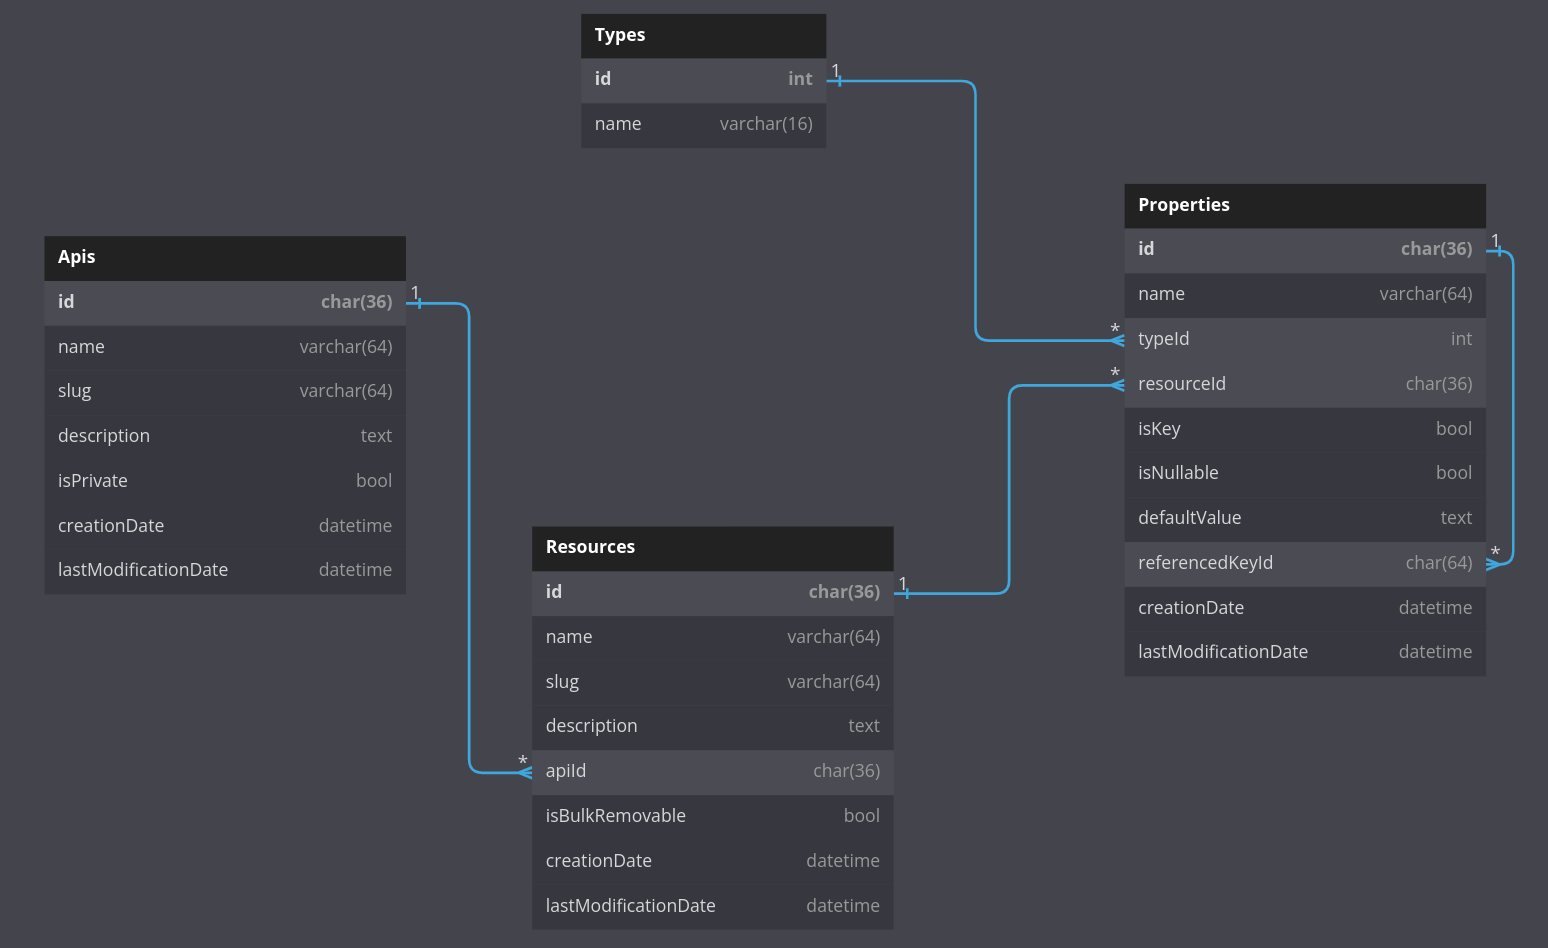
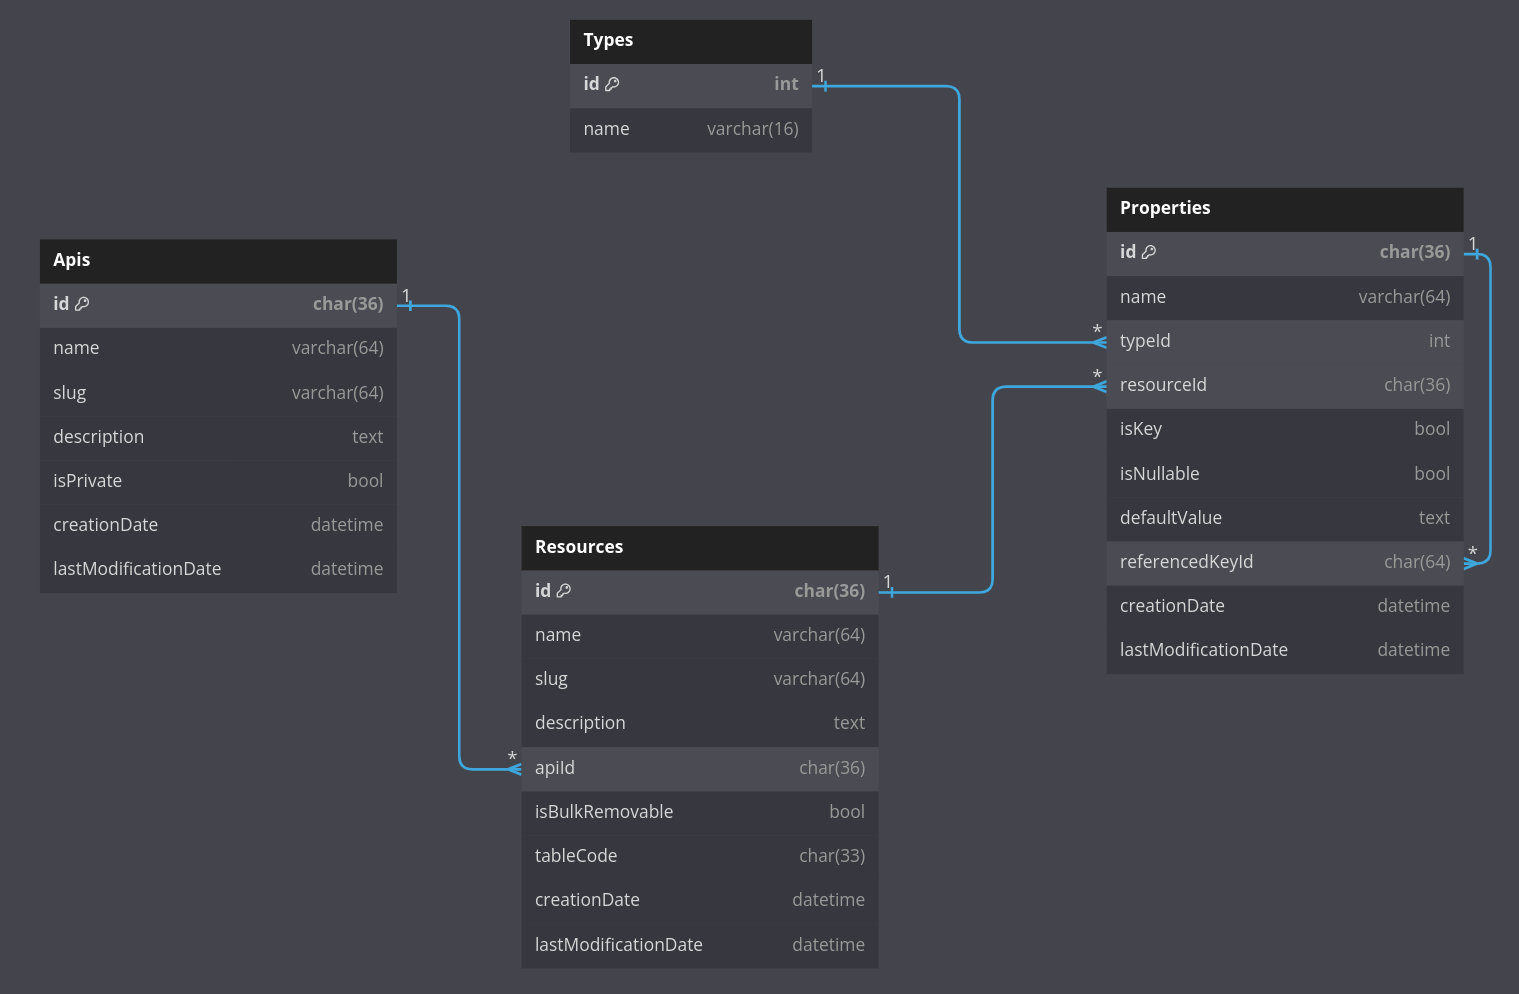
Add 'table code' property in db diagram, script and repository

diff --git a/src/resource/repository/queries.ts b/src/resource/repository/queries.ts
@@ -4,8 +4,8 @@ import Resource from '../interfaces/Resource';
 const getQueryToInsertResource = (resource: Resource) => {
     let sqlInsertResource =
         'INSERT INTO resources ' +
-        '(id, name, slug, description, apiId, isBulkRemovable, creationDate) VALUES ' +
-        '($1, $2, $3, $4, $5, $6, $7)';
+        '(id, name, slug, description, apiId, isBulkRemovable, tableCode, creationDate) VALUES ' +
+        '($1, $2, $3, $4, $5, $6, $7, $8)';
 
     let valuesInsertResource = [
         resource.id,
@@ -14,6 +14,7 @@ const getQueryToInsertResource = (resource: Resource) => {
         resource.description,
         resource.apiId,
         resource.isBulkRemovable,
+        resource.tableCode,
         resource.creationDate,
     ];
 
